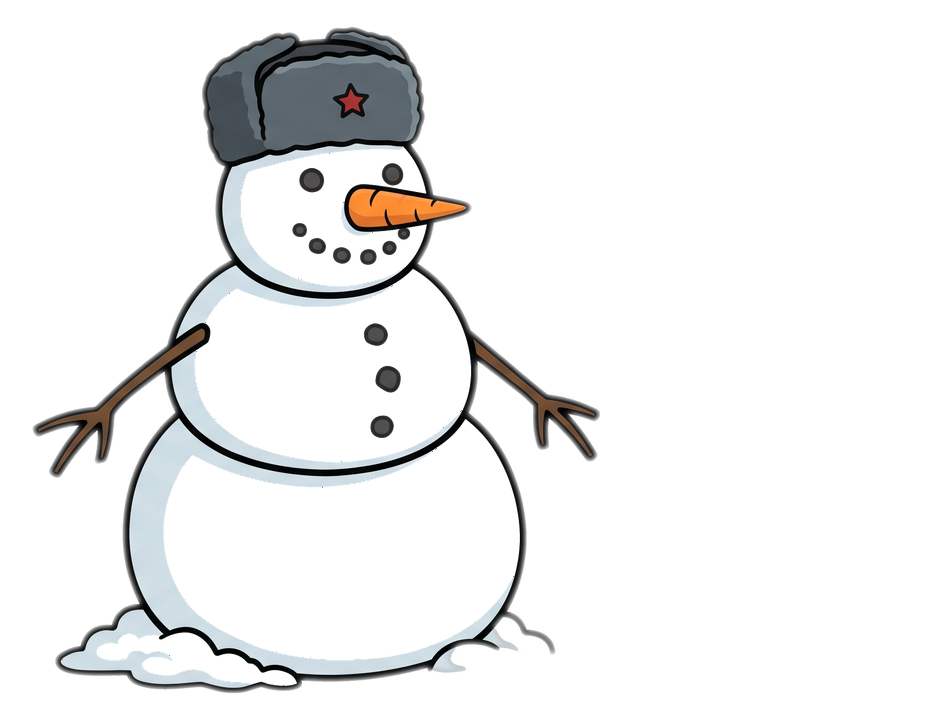
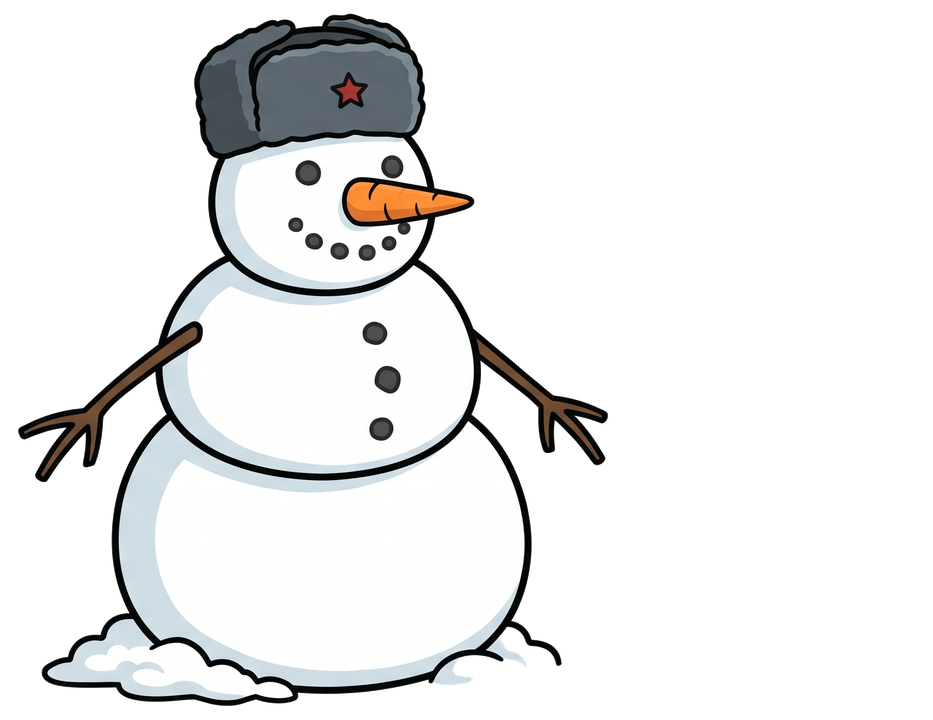
Corrige le bonhomme de neige rendu transparent après détourage.
Le cutout blanc-sur-blanc mangeait le corps ; pipeline dédié + PNG régénéré.

Changed region(s): [[0.0, 0.0, 0.6652, 0.9778]]

diff --git a/tools/cutout.py b/tools/cutout.py
@@ -306,6 +306,86 @@ def apply_cutout(im: Image.Image, prop: bool = False) -> Image.Image:
     return out
 
 
+def cutout_white_on_white(im: Image.Image, max_dist: int = 200) -> Image.Image:
+    """Détourage sujet clair sur fond blanc (ex. bonhomme de neige).
+
+    Le flood classique mange le corps (même blanc que le fond). Ici :
+    1) graines = pixels non blancs (traits, ombres, accessoires) ;
+    2) BFS limité dans le blanc pour remplir les volumes ;
+    3) on retire le blanc encore relié au bord (= fond).
+    """
+    from collections import deque
+
+    rgba = im.convert("RGBA")
+    w, h = rgba.size
+    px = rgba.load()
+    near_white = [[False] * w for _ in range(h)]
+    seed = []
+    for y in range(h):
+        for x in range(w):
+            r, g, b, _a = px[x, y]
+            nw = r >= 246 and g >= 246 and b >= 246
+            near_white[y][x] = nw
+            if not nw:
+                seed.append((x, y))
+
+    keep = [[False] * w for _ in range(h)]
+    dist: dict[tuple[int, int], int] = {}
+    q: deque[tuple[int, int]] = deque()
+    for x, y in seed:
+        keep[y][x] = True
+        dist[(x, y)] = 0
+        q.append((x, y))
+
+    dirs = ((1, 0), (-1, 0), (0, 1), (0, -1))
+    while q:
+        x, y = q.popleft()
+        d = dist[(x, y)]
+        if d >= max_dist:
+            continue
+        for dx, dy in dirs:
+            nx, ny = x + dx, y + dy
+            if nx < 0 or ny < 0 or nx >= w or ny >= h or (nx, ny) in dist:
+                continue
+            if not near_white[ny][nx]:
+                continue
+            dist[(nx, ny)] = d + 1
+            keep[ny][nx] = True
+            q.append((nx, ny))
+
+    # blanc connecté au bord = fond → transparent
+    bq: deque[tuple[int, int]] = deque()
+    seen = [[False] * w for _ in range(h)]
+    for x in range(w):
+        for y in (0, h - 1):
+            if keep[y][x] and near_white[y][x]:
+                bq.append((x, y))
+                seen[y][x] = True
+    for y in range(h):
+        for x in (0, w - 1):
+            if keep[y][x] and near_white[y][x] and not seen[y][x]:
+                bq.append((x, y))
+                seen[y][x] = True
+    while bq:
+        x, y = bq.popleft()
+        keep[y][x] = False
+        for dx, dy in dirs:
+            nx, ny = x + dx, y + dy
+            if nx < 0 or ny < 0 or nx >= w or ny >= h or seen[ny][nx]:
+                continue
+            if keep[ny][nx] and near_white[ny][nx]:
+                seen[ny][nx] = True
+                bq.append((nx, ny))
+
+    out = Image.new("RGBA", (w, h), (0, 0, 0, 0))
+    op = out.load()
+    for y in range(h):
+        for x in range(w):
+            if keep[y][x]:
+                op[x, y] = px[x, y]
+    return out
+
+
 def process_prop(src: Path, dst: Path, target_h: int = 720, preserve_white: bool = False):
     """Détourage prop (drapeau…) : pas d'ancrage pieds.
 
@@ -315,6 +395,30 @@ def process_prop(src: Path, dst: Path, target_h: int = 720, preserve_white: bool
     """
     im = Image.open(src).convert("RGBA")
     chroma = is_chroma_bg(im)
+    # Bonhomme de neige (et props blanc-sur-blanc) : pipeline dédié
+    if src.stem == "snowman" and not chroma:
+        cut = cutout_white_on_white(im)
+        bb = content_bbox(cut)
+        if not bb:
+            print(f"  ! {src.name}: masque vide — skip")
+            return
+        cropped = cut.crop(bb)
+        mw = max(4, int(cropped.width * 0.02))
+        mh = max(4, int(cropped.height * 0.02))
+        padded = Image.new(
+            "RGBA",
+            (cropped.width + 2 * mw, cropped.height + 2 * mh),
+            (0, 0, 0, 0),
+        )
+        padded.paste(cropped, (mw, mh), cropped)
+        scale = target_h / padded.height
+        nw, nh = max(1, int(padded.width * scale)), target_h
+        norm = padded.resize((nw, nh), Image.Resampling.LANCZOS)
+        norm = remove_orphan_blobs(norm, min_keep=40)
+        dst.parent.mkdir(parents=True, exist_ok=True)
+        norm.save(dst)
+        print(f"  {src.name} → {dst.name} (snowman white-on-white)")
+        return
     if chroma:
         # Fond magenta : chroma key propre (le blanc des drapeaux est préservé
         # nativement → plus besoin de preserve_white / FLAG_KEEP_WHITE_MAPS).
@@ -695,6 +799,7 @@ def main():
         dst = out_dir / src.name
         stem = src.stem
         if stem in PROP_NAMES or src.name in {n + ".png" for n in PROP_NAMES}:
+            # flag à bandes blanches ; snowman = cutout_white_on_white (dans process_prop)
             keep_w = stem == "flag" and raw_dir.name in FLAG_KEEP_WHITE_MAPS
             process_prop(src, dst, preserve_white=keep_w)
         else:
